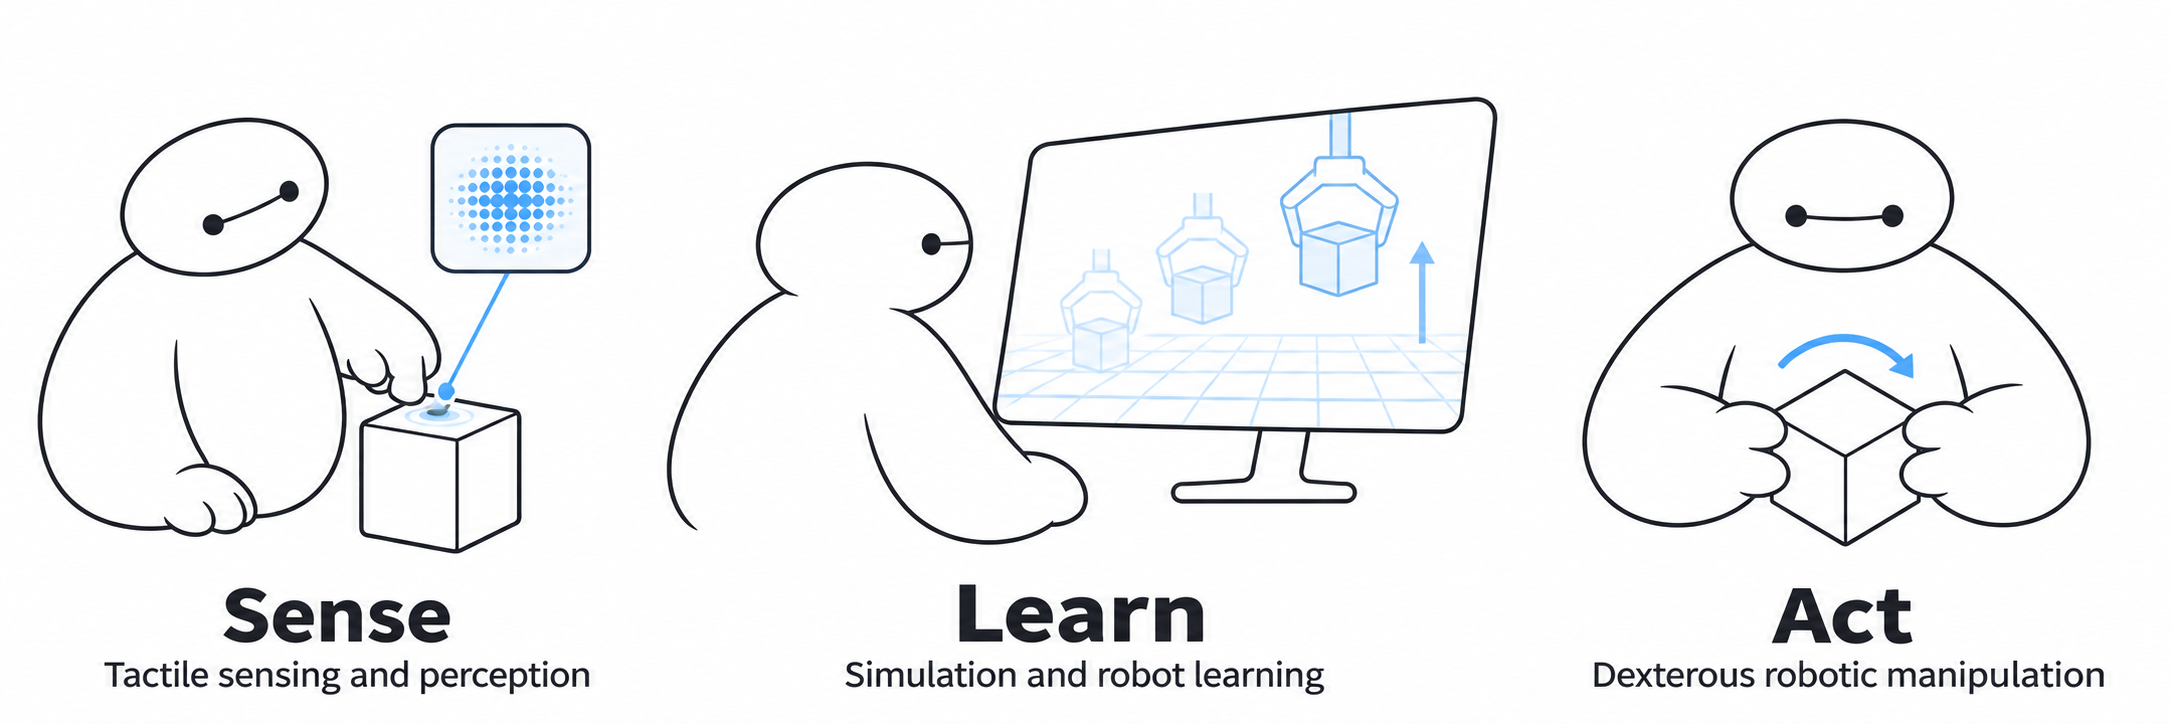
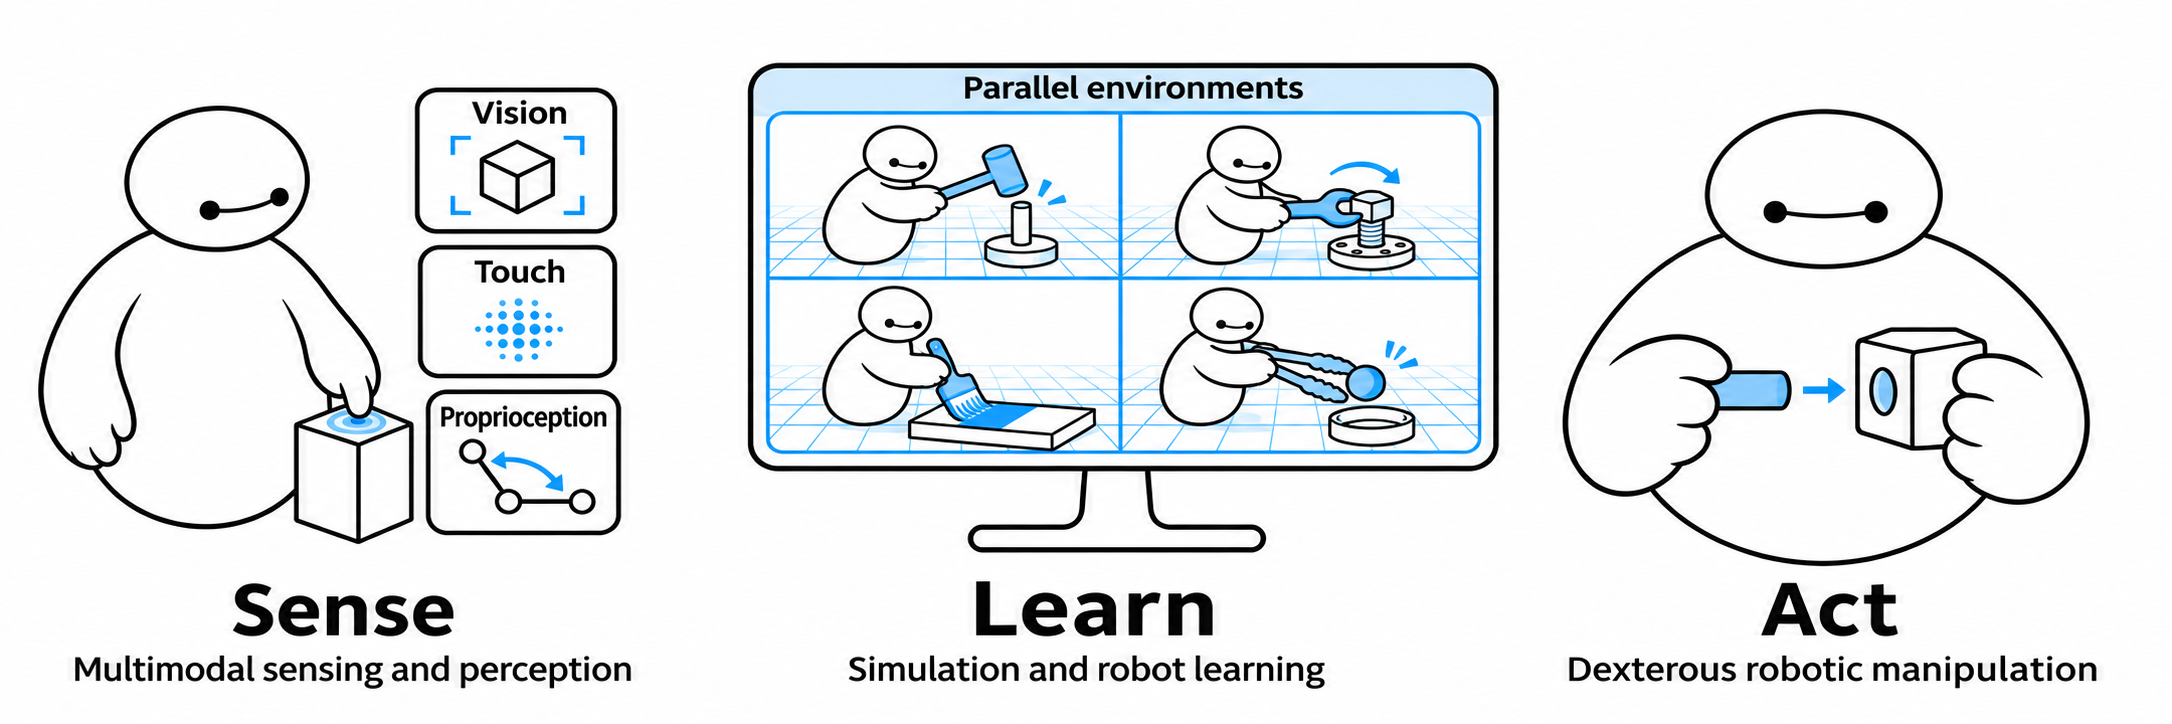
Update research and team images

diff --git a/_pages/team/index.html b/_pages/team/index.html
@@ -285,11 +285,11 @@ permalink: /people/
 <script>
 (function () {
   const images = [
-    "{{ '/images/team/rolling_images/people/3_rongxi_collecting_tactile_data.jpg' | relative_url }}",
+    "{{ '/images/team/rolling_images/people/3_rongxi_collecting_tactile_data_small.jpg' | relative_url }}",
     "{{ '/images/team/rolling_images/people/4_testing_topstar.jpg' | relative_url }}",
-    "{{ '/images/team/rolling_images/people/5_work_together.png' | relative_url }}",
-    "{{ '/images/team/rolling_images/people/6_lab_view.jpg' | relative_url }}",
-    "{{ '/images/team/rolling_images/people/7_lab_view.jpg' | relative_url }}"
+    "{{ '/images/team/rolling_images/people/5_work_together_small.png' | relative_url }}",
+    "{{ '/images/team/rolling_images/people/6_lab_view_small.jpg' | relative_url }}",
+    "{{ '/images/team/rolling_images/people/7_lab_view_small.jpg' | relative_url }}"
   ];
   const image = document.getElementById("people-carousel-image");
   const nextImage = document.getElementById("people-carousel-image-next");

diff --git a/_pages/research.md b/_pages/research.md
@@ -14,7 +14,7 @@ learning, and dexterous manipulation to develop machines that can interact
 with objects reliably and precisely.
 
 <img src="{{ '/images/research-directions.png' | relative_url }}"
-     alt="Sense: tactile sensing and perception; Learn: simulation and robot learning; Act: dexterous robotic manipulation."
+     alt="Sense: multimodal sensing and perception; Learn: simulation and robot learning; Act: dexterous robotic manipulation."
      style="display: block; width: 100%; height: auto; margin: 24px auto;">
 
 We focus on three closely connected research directions:

diff --git a/_pages/home.md b/_pages/home.md
@@ -22,7 +22,7 @@ permalink: /
   <div class="home-actions">
     <a href="{{ '/news/' | relative_url }}">News</a>
     <a href="{{ '/people/' | relative_url }}">Meet the Team</a>
-    <a href="{{ '/research/' | relative_url }}">Explore Our Research</a>
+    <a href="{{ '/publications/' | relative_url }}">Explore Our Research</a>
     <a href="{{ '/join-us/' | relative_url }}">Join Us</a>
   </div>
 </div>
